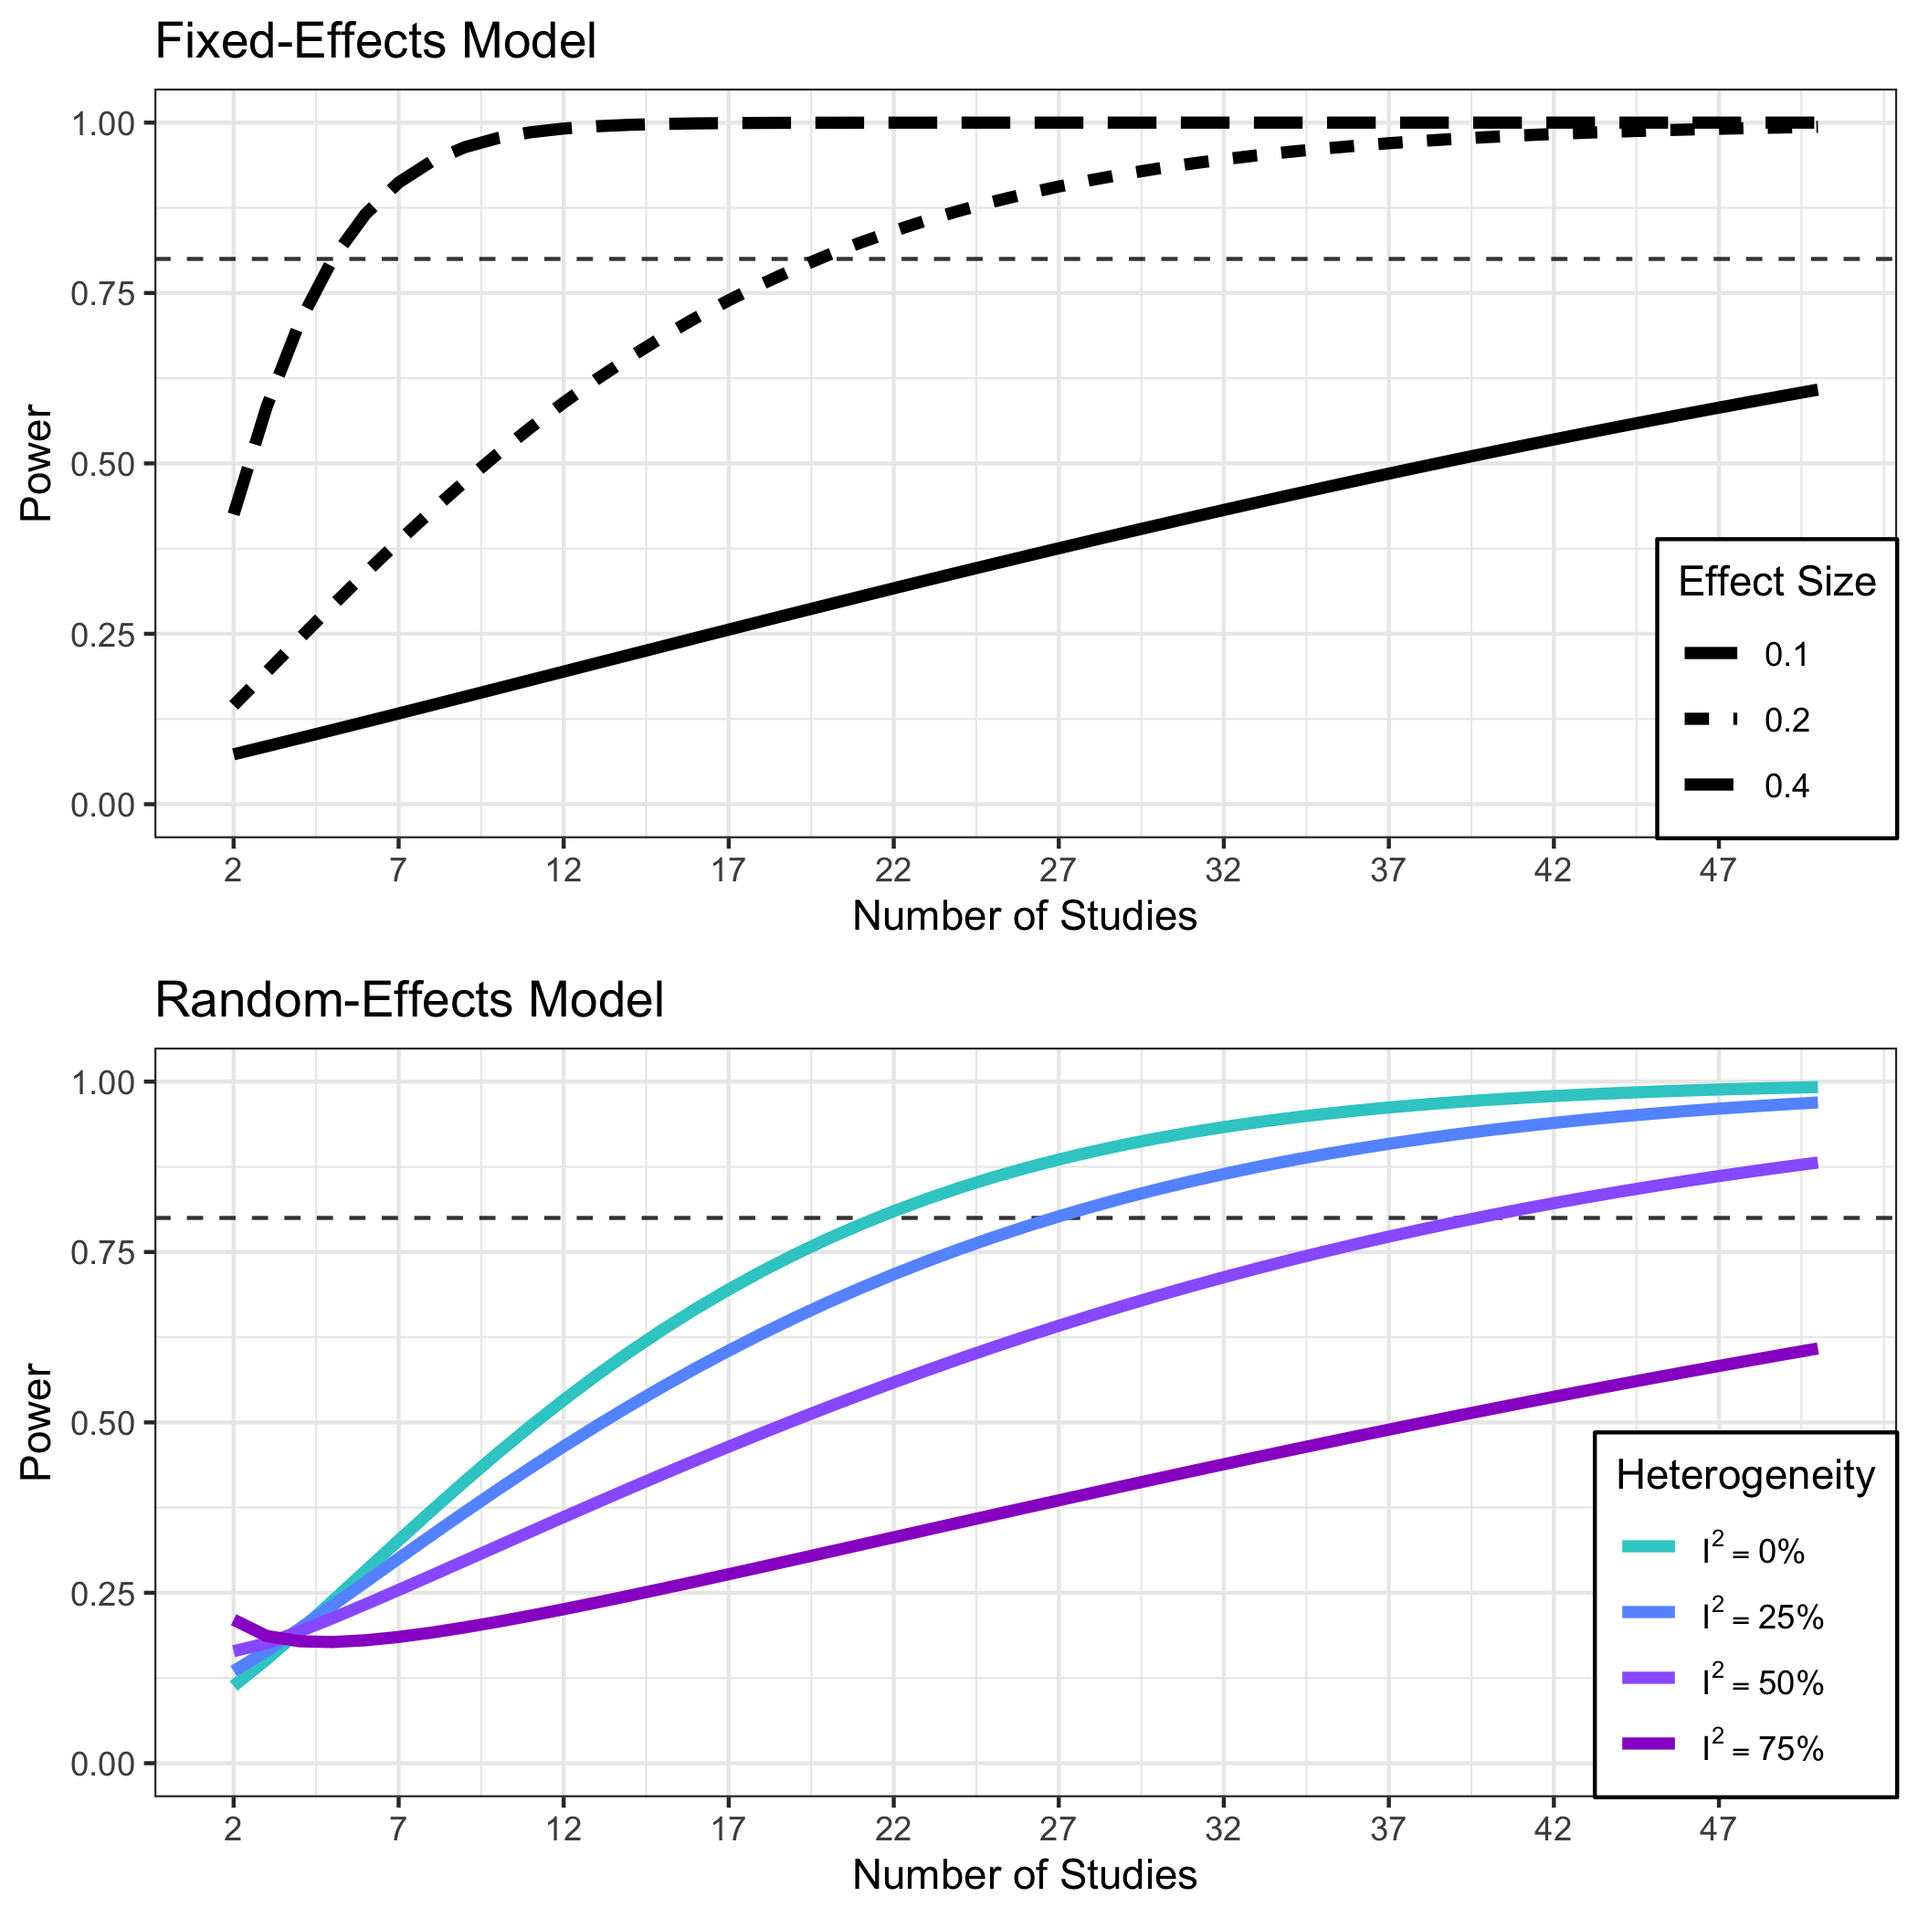
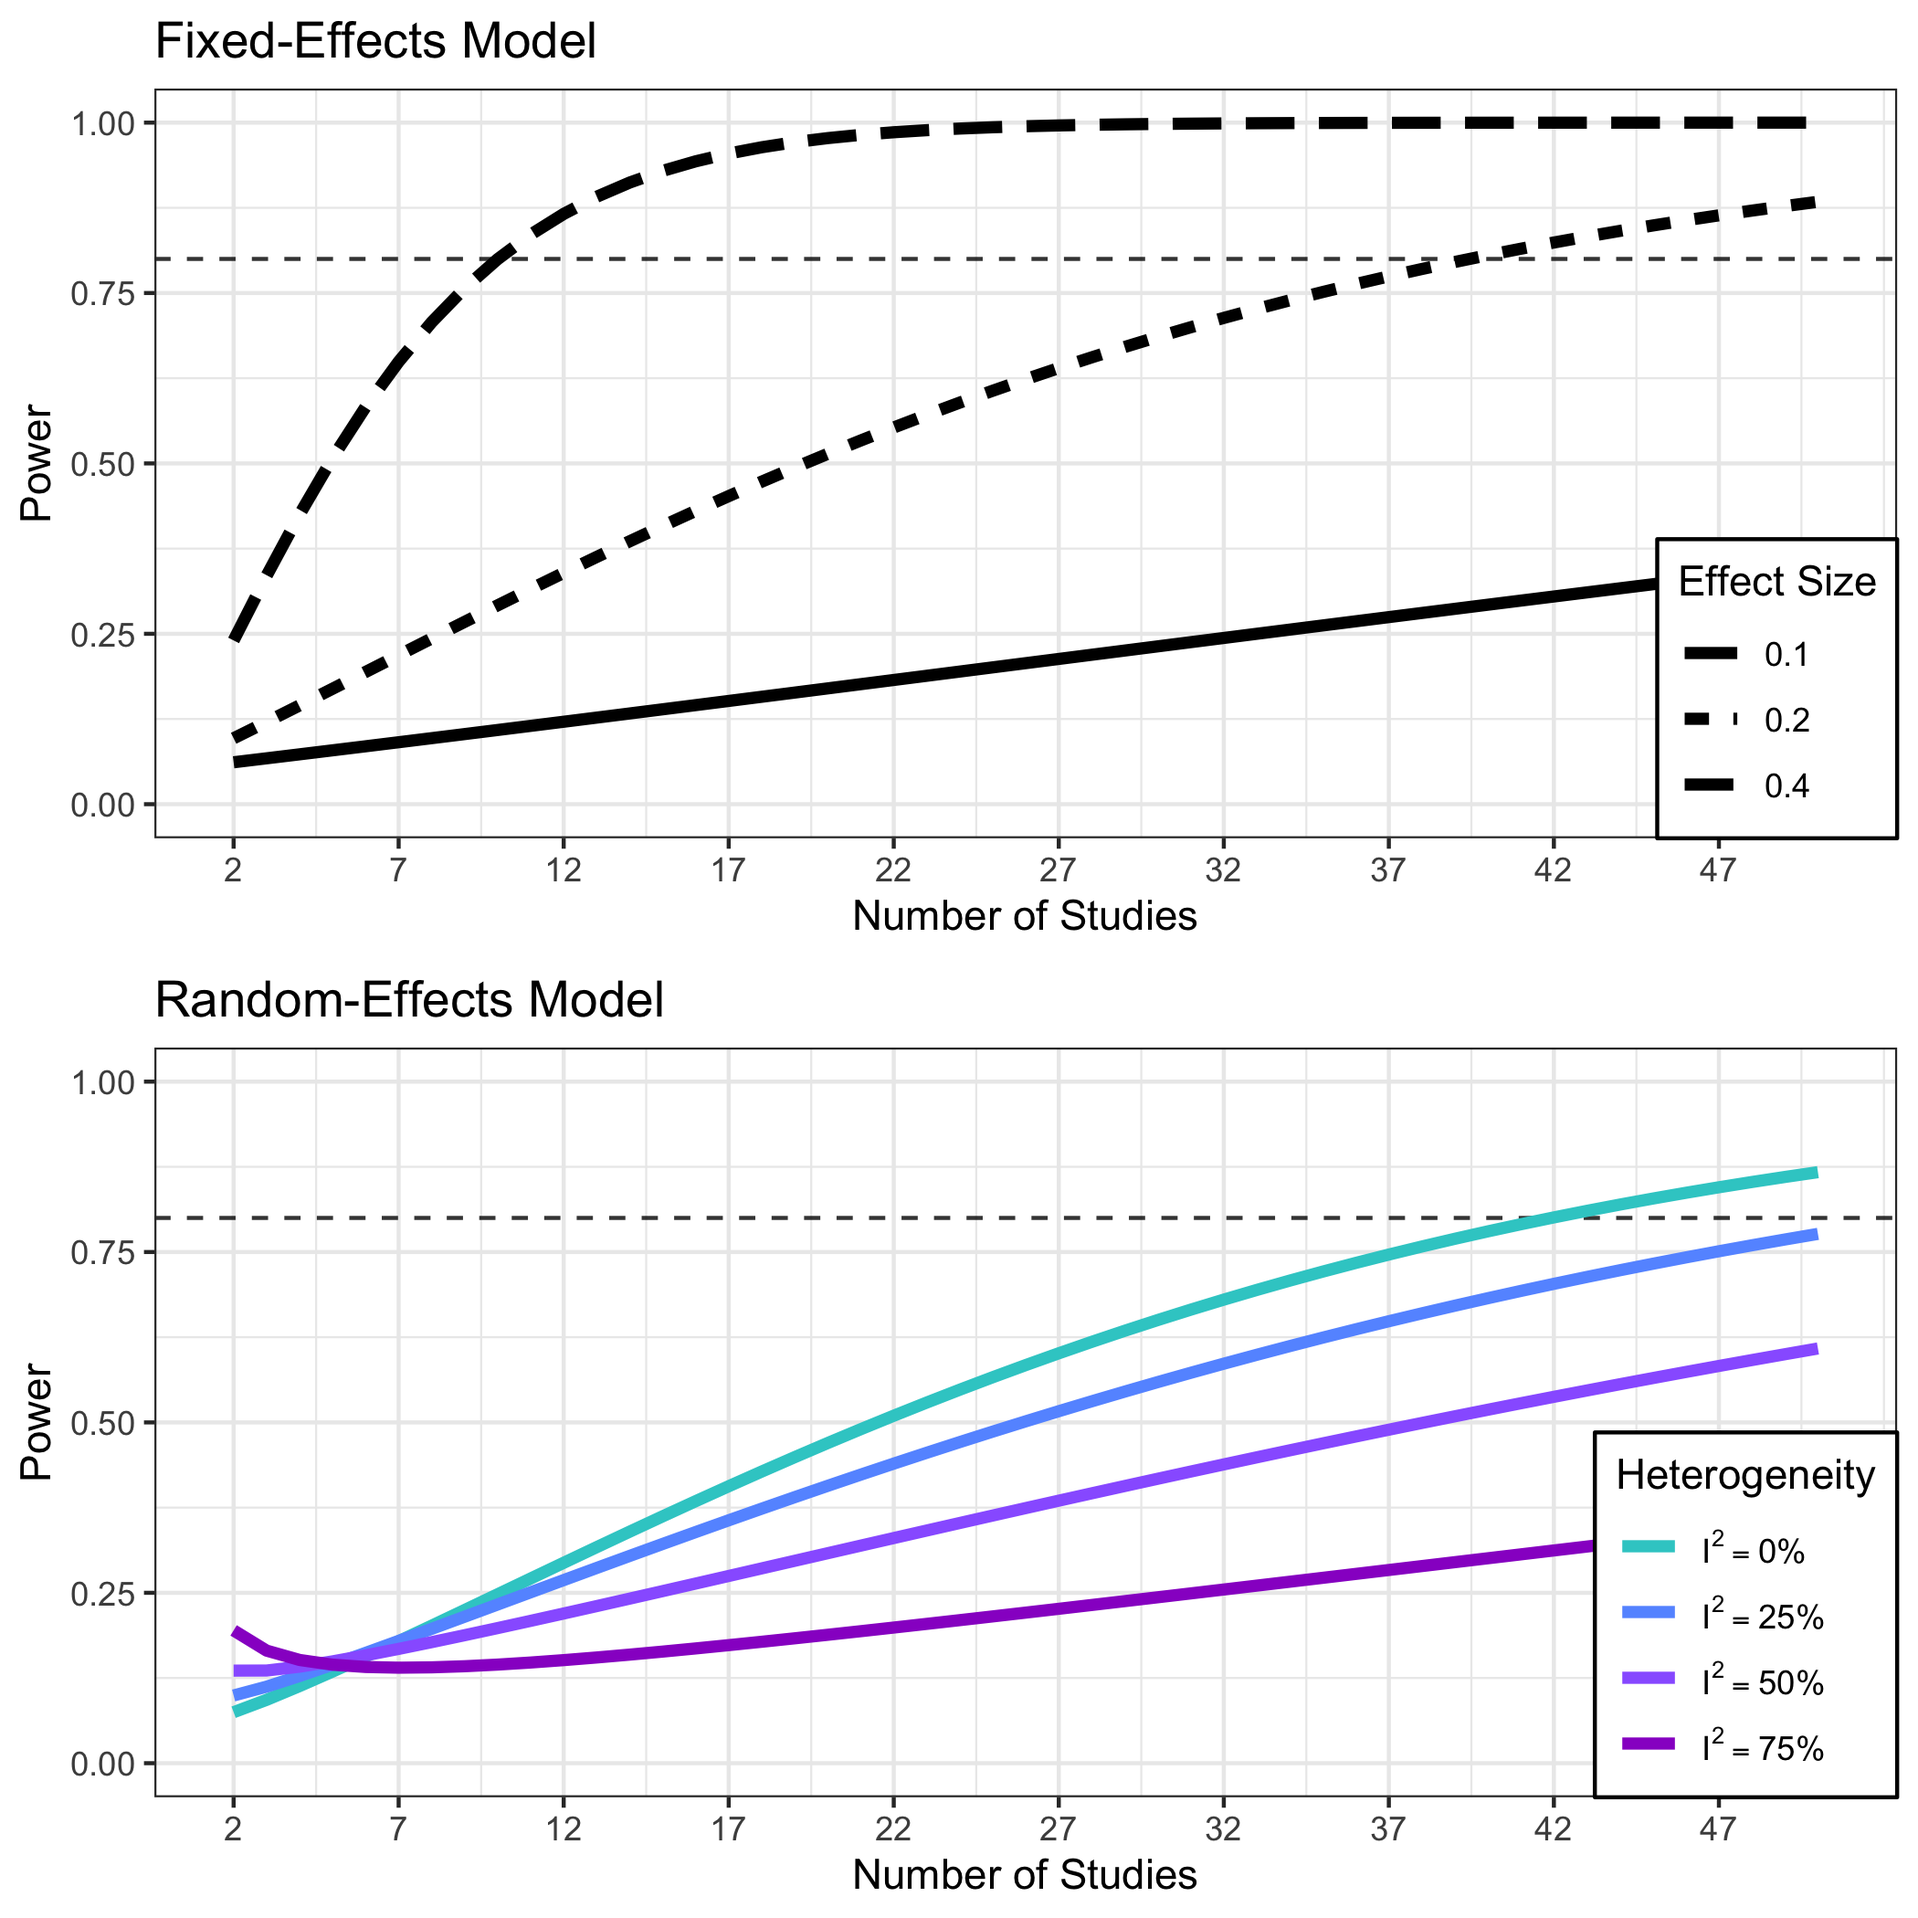
re-knit readme

diff --git a/README.md b/README.md
@@ -24,6 +24,7 @@ Computation of statistical power for:
     models).
 3.  Test of homogeneity for within-study variance
 4.  Subgroup Analyses
+5.  Moderator Analysis
 
 metapower can currently handle the following designs and effect sizes:
 
@@ -64,15 +65,16 @@ print(my_power)
 #>  Power Analysis for Meta-analysis 
 #> 
 #>  Expected Effect Size:              0.2 
-#>  Expected Sample Size (per group):  20 
+#>  Expected Sample Size (per group):  10 
 #>  Expected Number of Studies:        10 
+#> 
 #>  Estimated Power: Mean Effect Size 
 #> 
-#>  Fixed-Effects Model                0.5140202 
-#>  Random-Effects Model (i2 =  0% ):  0.4548414 
-#>  Random-Effects Model (i2 = 25% ):  0.401282 
-#>  Random-Effects Model (i2 = 50% ):  0.318419 
-#>  Random-Effects Model (i2 = 75% ):  0.2075233
+#>  Fixed-Effects Model                0.2917841 
+#>  Random-Effects Model (i2 =  0% ):  0.2478379 
+#>  Random-Effects Model (i2 = 25% ):  0.2328637 
+#>  Random-Effects Model (i2 = 50% ):  0.1982394 
+#>  Random-Effects Model (i2 = 75% ):  0.1446749
 plot_mpower(my_power)
 ```
 
